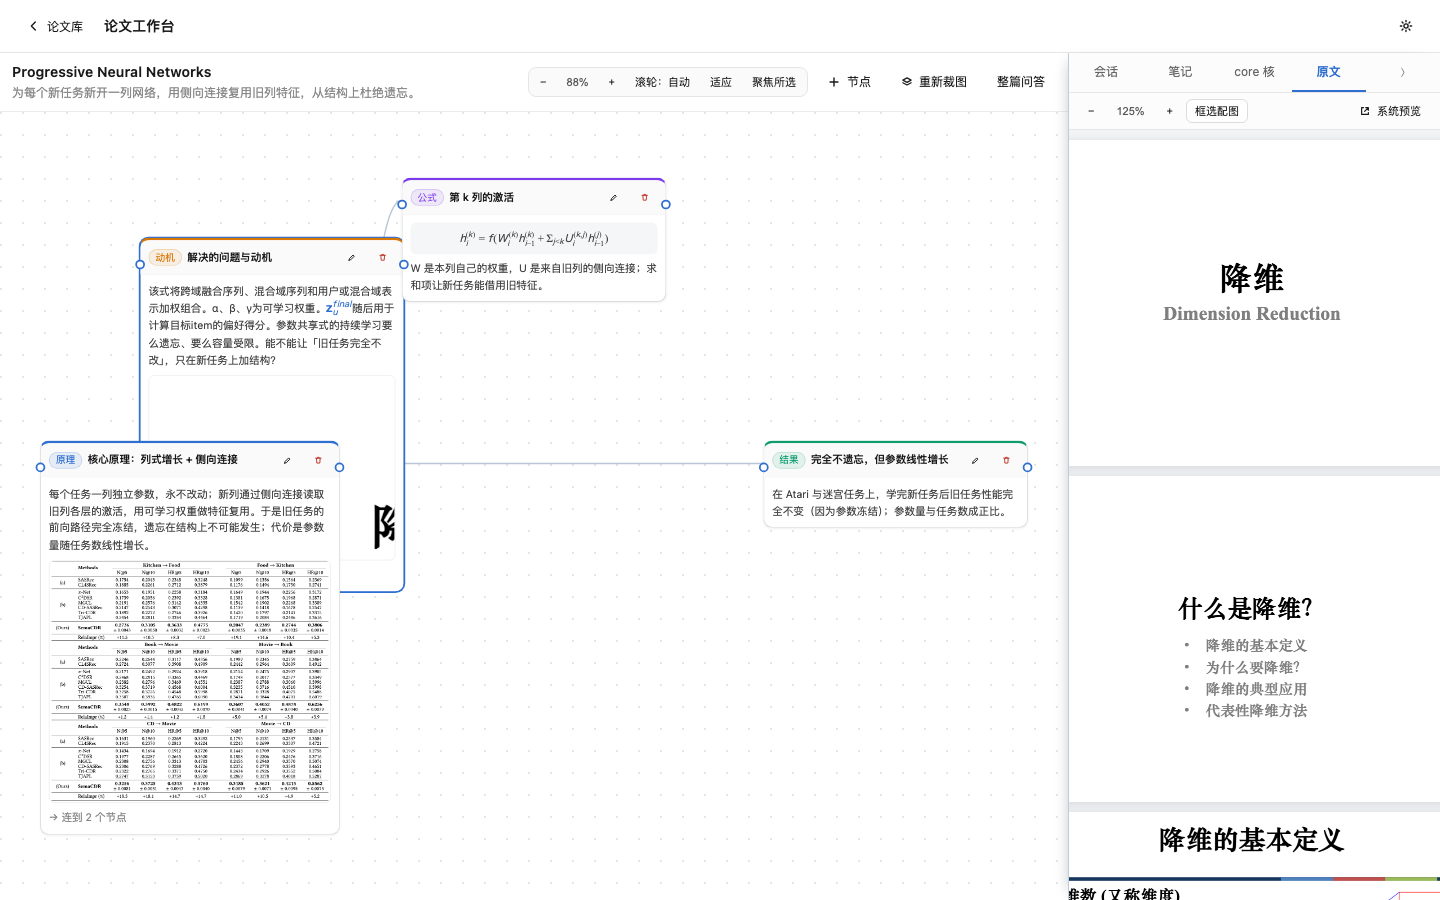
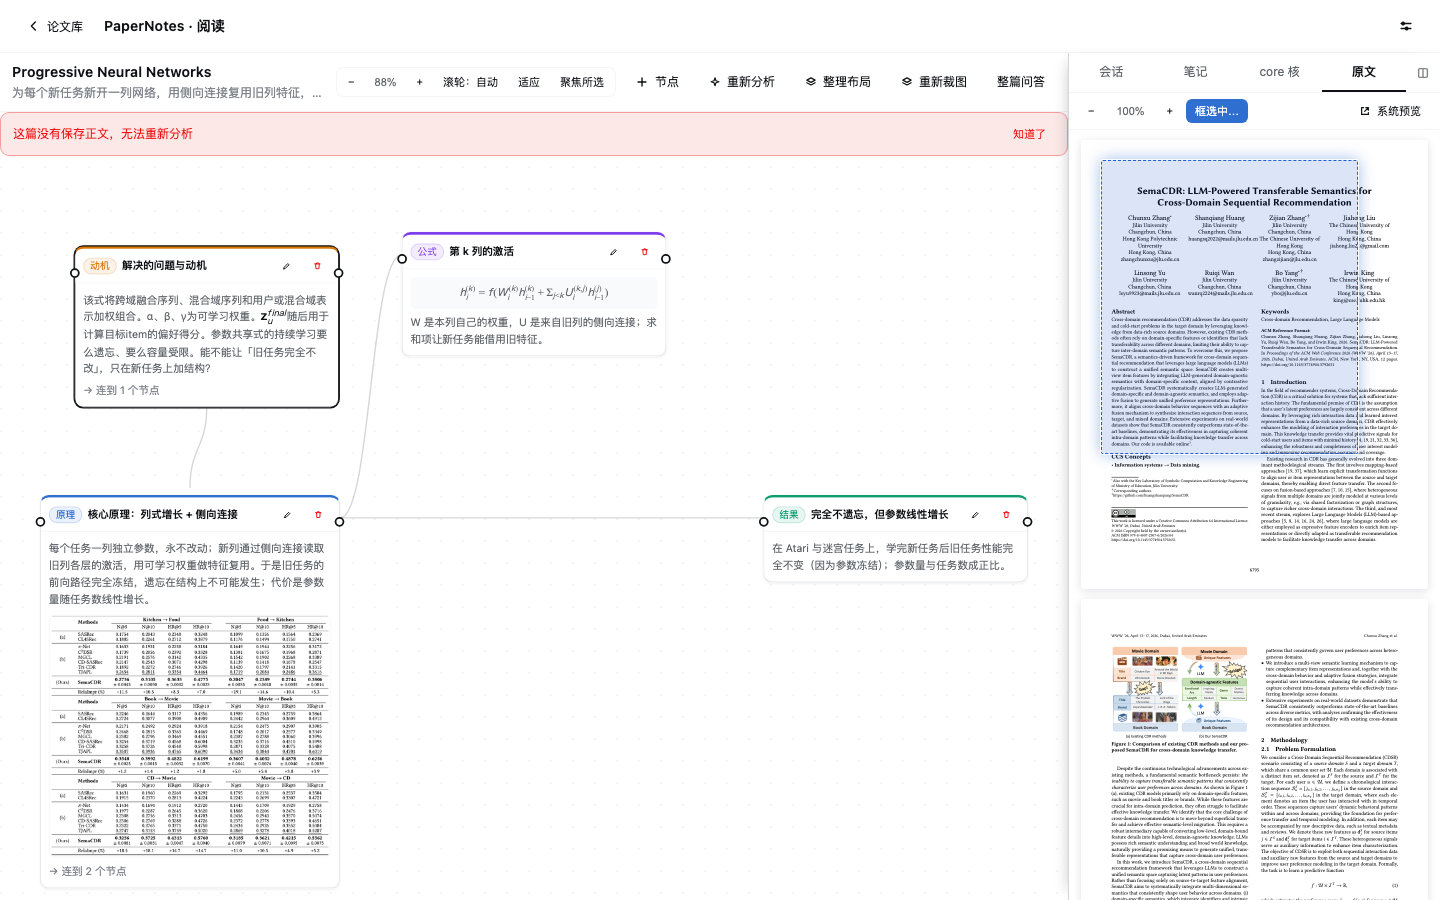
0.13.7: 深色模式下框选配图的选框不再发白
- .pd-pdf-box 不再用 --dsw-alias-brand-primary（深色主题里接近白色），固定高对比蓝 #1f5fd0
- 1.5px 虚线 + 16% 蓝色蒙层 + 白色外晕，白页/深色插图上都看得清（对比度 ~5.8:1）
- 预览台新增断言：拖动中必须有选框、与白页对比度 >= 3:1；新增明暗截图

diff --git a/client.js b/client.js
@@ -742,10 +742,14 @@ l0,-`+(t+144)+`c-2,-159.3,-10,-310.7,-24,-454c-53.3,-528,-210,-949.7,
 .pd-pdf-canvas { display: block; width: 100%; height: 100%; object-fit: contain; }
 .pd-pdf-page.is-picking { cursor: crosshair; }
 .pd-pdf-page.is-picking .pd-pdf-canvas { pointer-events: none; }
+/* \u6846\u9009\u6846\uFF1APDF \u9875\u9762\u6C38\u8FDC\u662F\u767D\u5E95\uFF0C\u6240\u4EE5\u56FA\u5B9A\u7528\u9AD8\u5BF9\u6BD4\u7684\u84DD\uFF0C\u4E0D\u8DDF\u4E3B\u9898\u8D70
+   \uFF08\u6DF1\u8272\u4E3B\u9898\u91CC --dsw-alias-brand-primary \u504F\u767D\uFF0C\u865A\u7EBF\u5728\u767D\u9875\u4E0A\u7B49\u4E8E\u770B\u4E0D\u89C1\uFF09\u3002
+   \u5916\u9762\u518D\u538B\u4E00\u5708\u534A\u900F\u660E\u767D\u6655\uFF0C\u843D\u5728\u6DF1\u8272\u63D2\u56FE\u4E0A\u4E5F\u62CE\u5F97\u51FA\u6765\u3002 */
 .pd-pdf-box {
-  position: absolute; border: 1px dashed var(--dsw-alias-brand-primary, #2f6fd0);
-  background: color-mix(in srgb, var(--dsw-alias-brand-primary, #2f6fd0) 12%, transparent);
-  pointer-events: none;
+  position: absolute; border: 1.5px dashed #1f5fd0; border-radius: 2px;
+  background: rgba(31, 95, 208, .16);
+  box-shadow: 0 0 0 1px rgba(255, 255, 255, .9), 0 0 16px rgba(31, 95, 208, .45);
+  pointer-events: none; z-index: 2;
 }
 
 .pd-lightbox { position: fixed; inset: 0; z-index: 95; background: rgba(8,14,24,.82); display: flex; align-items: center; justify-content: center; cursor: zoom-out; }

diff --git a/src/client/styles.js b/src/client/styles.js
@@ -491,10 +491,14 @@ export const CSS = `
 .pd-pdf-canvas { display: block; width: 100%; height: 100%; object-fit: contain; }
 .pd-pdf-page.is-picking { cursor: crosshair; }
 .pd-pdf-page.is-picking .pd-pdf-canvas { pointer-events: none; }
+/* 框选框：PDF 页面永远是白底，所以固定用高对比的蓝，不跟主题走
+   （深色主题里 --dsw-alias-brand-primary 偏白，虚线在白页上等于看不见）。
+   外面再压一圈半透明白晕，落在深色插图上也拎得出来。 */
 .pd-pdf-box {
-  position: absolute; border: 1px dashed var(--dsw-alias-brand-primary, #2f6fd0);
-  background: color-mix(in srgb, var(--dsw-alias-brand-primary, #2f6fd0) 12%, transparent);
-  pointer-events: none;
+  position: absolute; border: 1.5px dashed #1f5fd0; border-radius: 2px;
+  background: rgba(31, 95, 208, .16);
+  box-shadow: 0 0 0 1px rgba(255, 255, 255, .9), 0 0 16px rgba(31, 95, 208, .45);
+  pointer-events: none; z-index: 2;
 }
 
 .pd-lightbox { position: fixed; inset: 0; z-index: 95; background: rgba(8,14,24,.82); display: flex; align-items: center; justify-content: center; cursor: zoom-out; }
